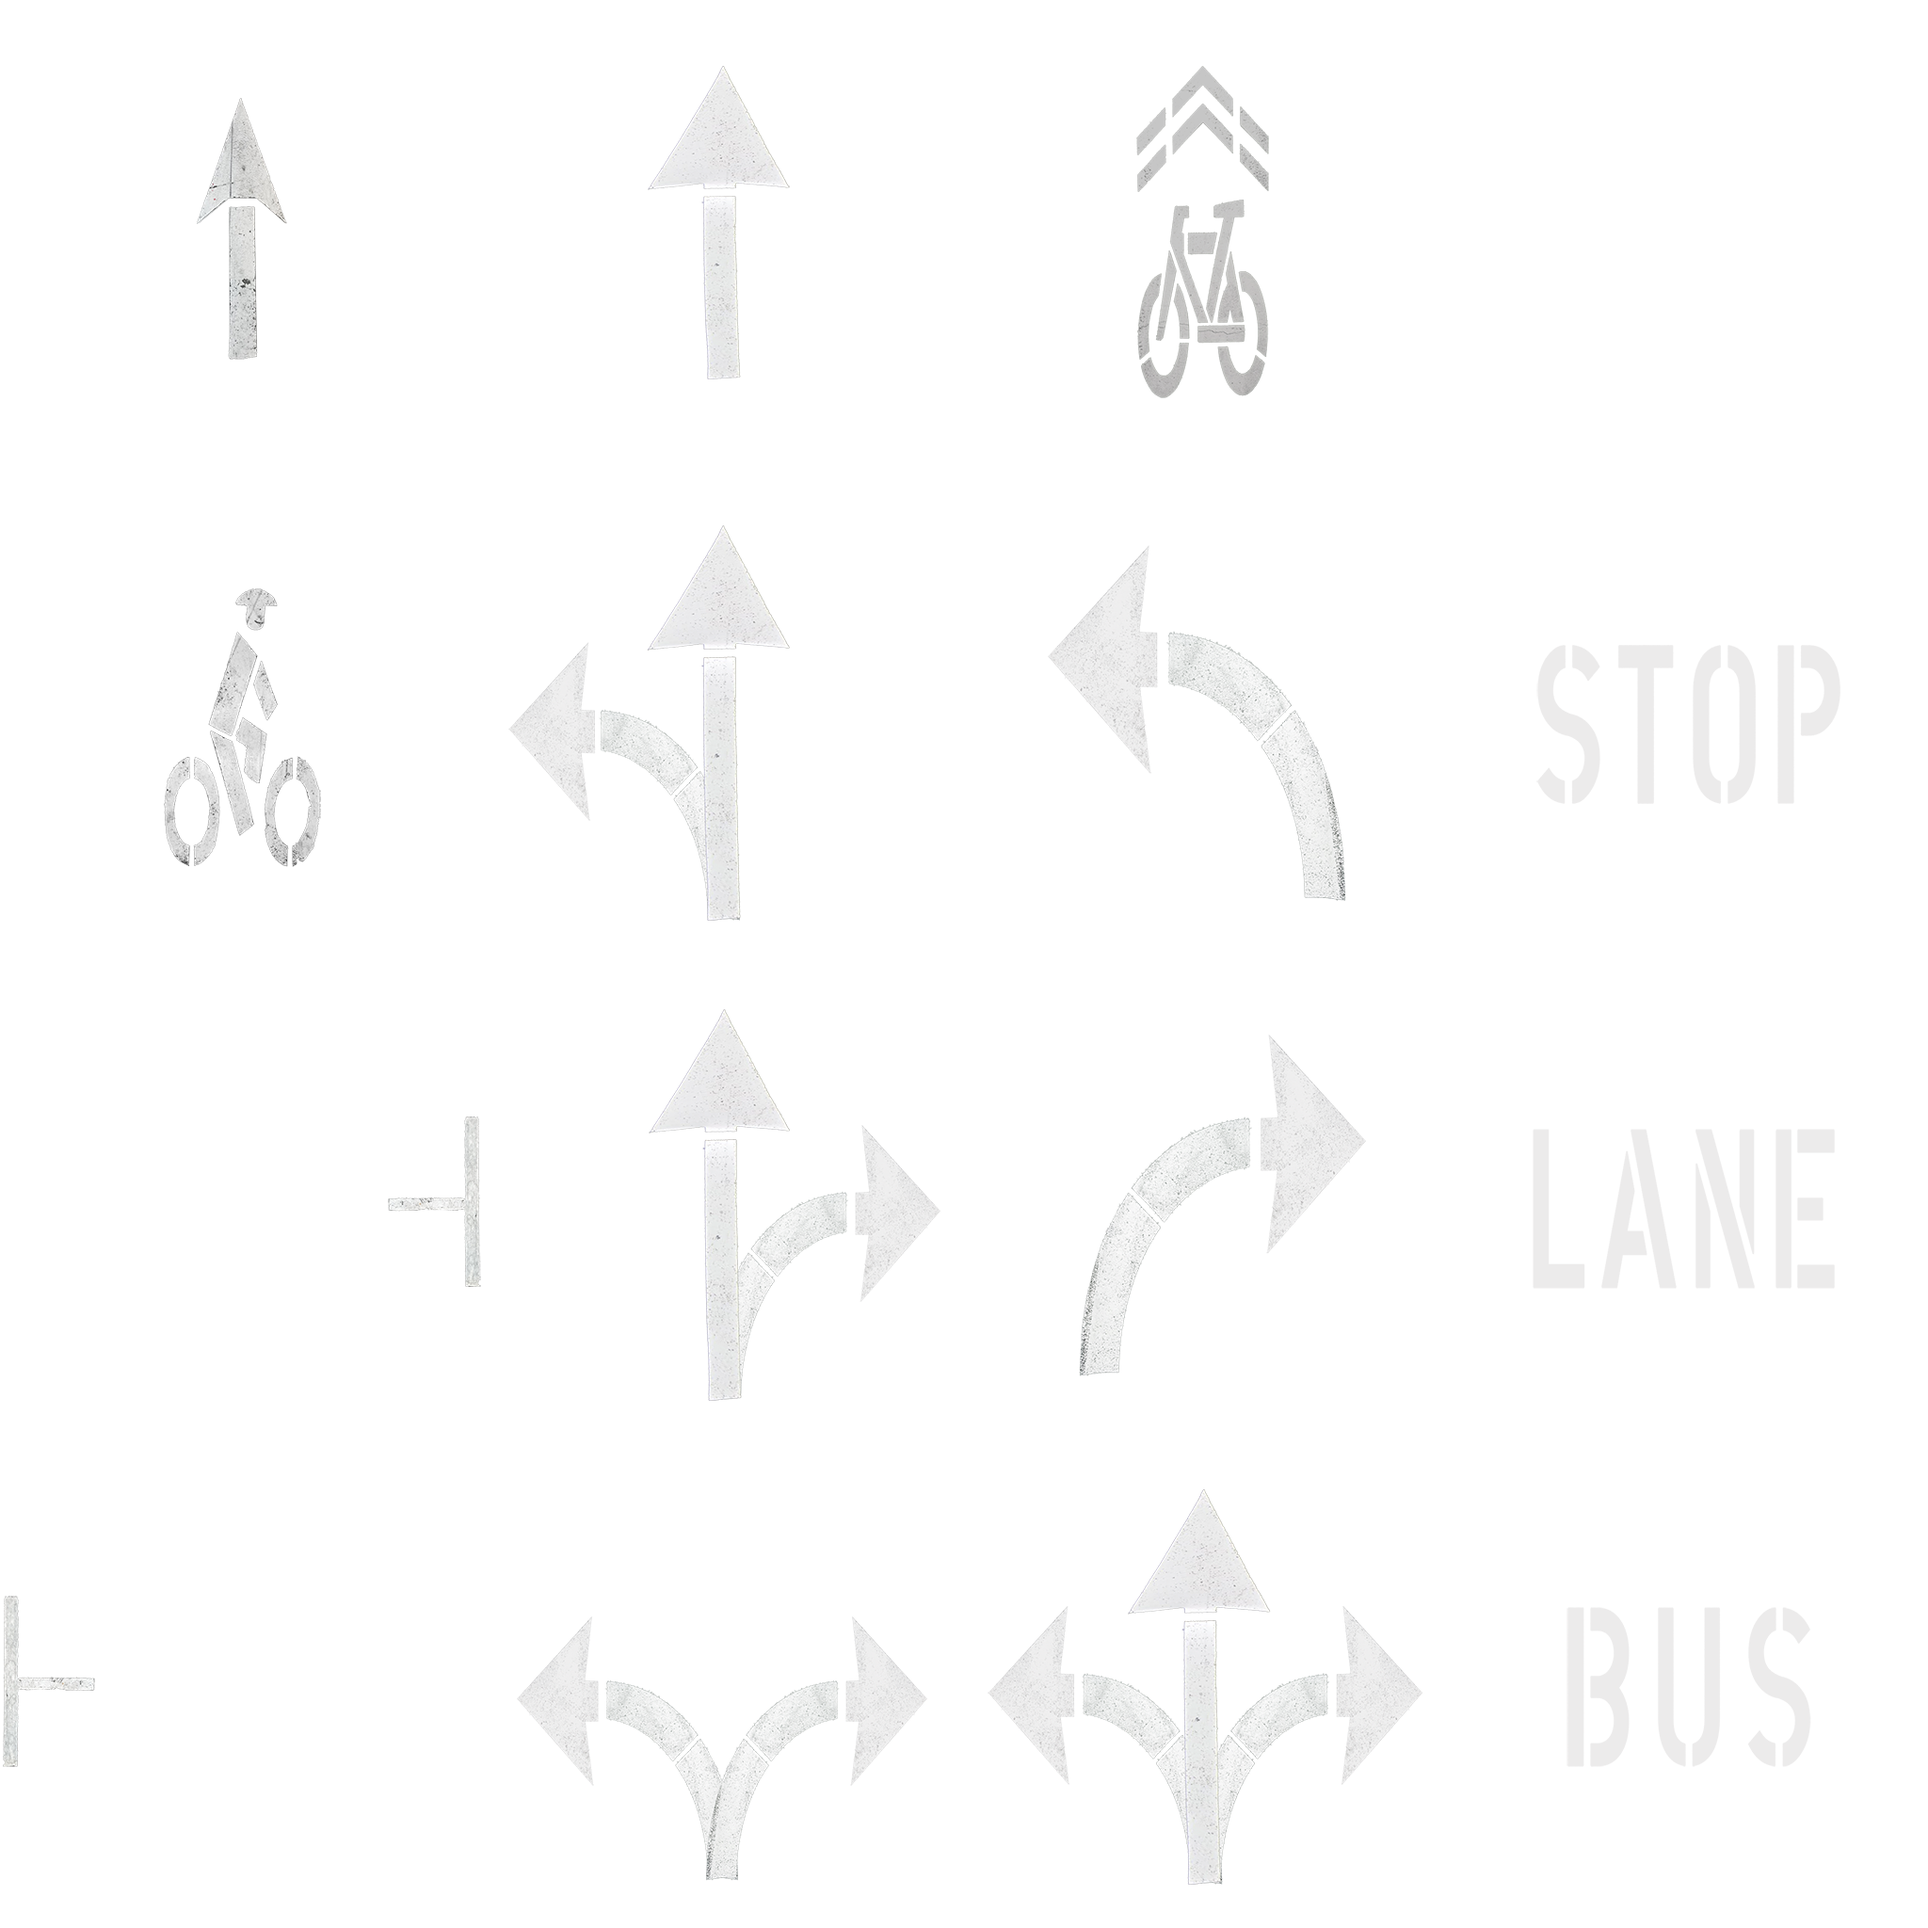
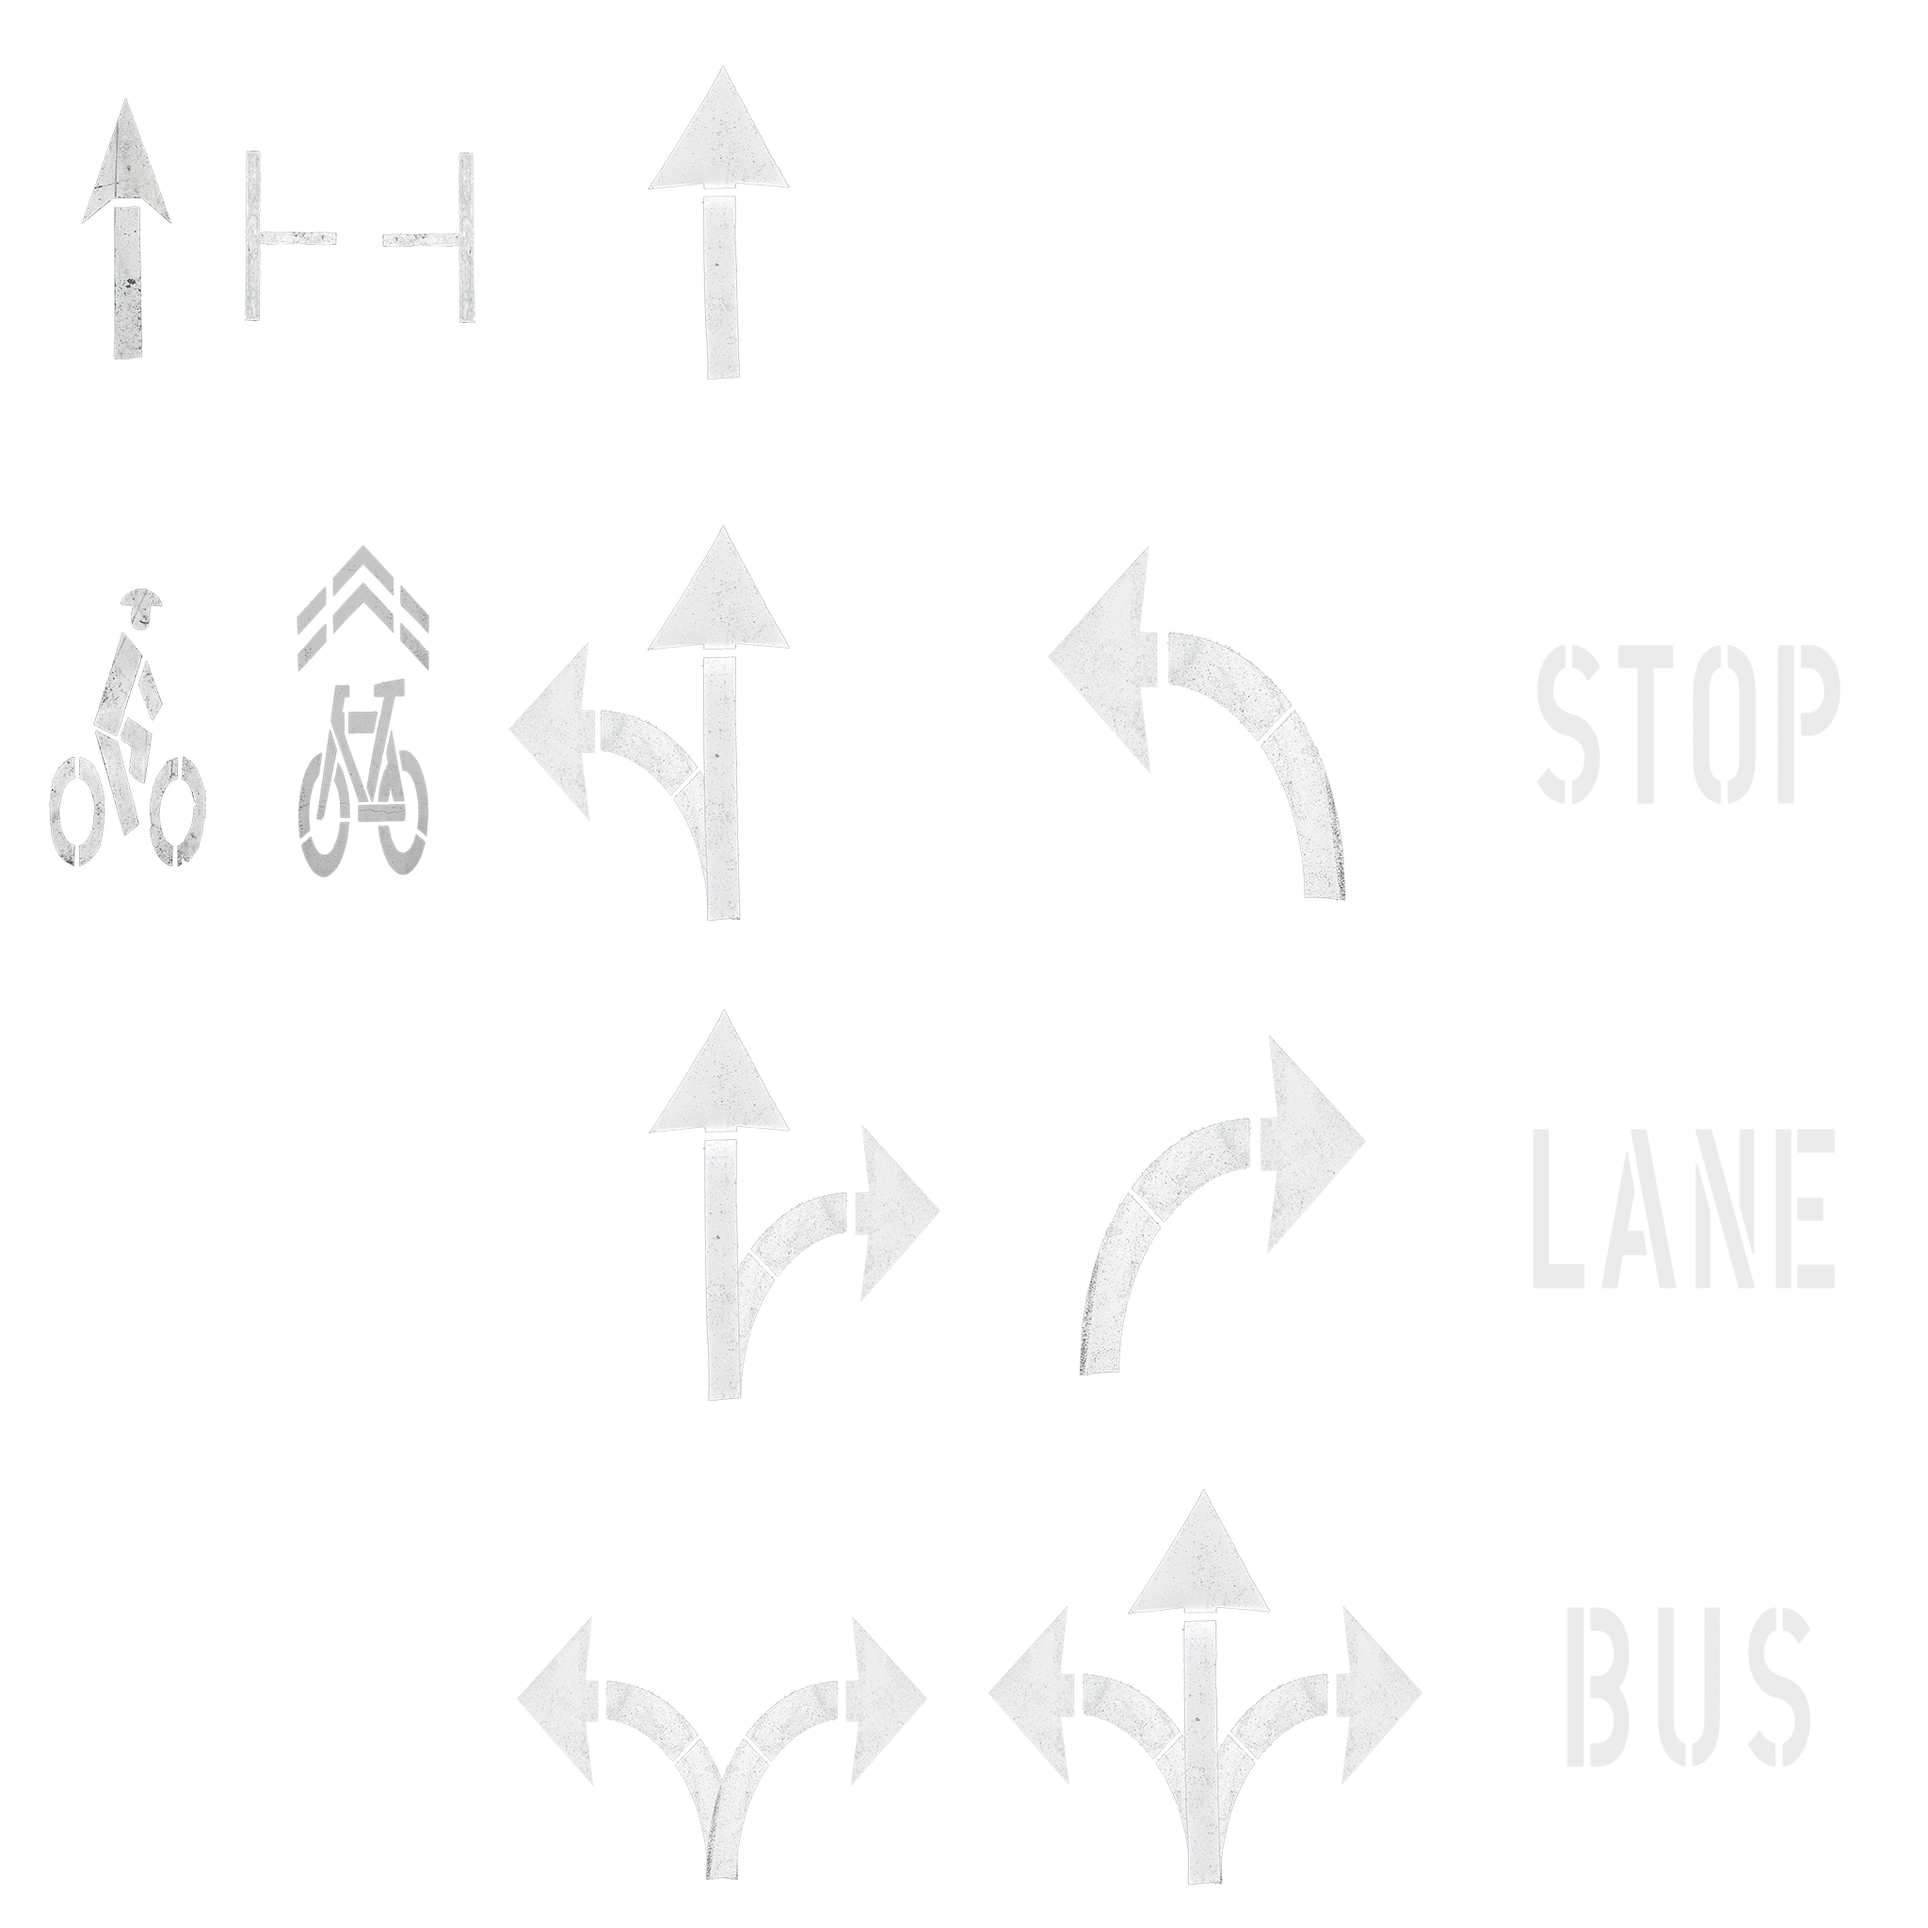
sharrow and bike lane atlas changes

diff --git a/index.html b/index.html
@@ -56,8 +56,8 @@
         <a-mixin id="left-straight" atlas-uvs="column: 2; row: 3"></a-mixin>
         <a-mixin id="right-straight" atlas-uvs="column: 2; row: 2"></a-mixin>
         <a-mixin id="straight" atlas-uvs="column: 2; row: 4"></a-mixin>
-        <a-mixin id="sharrow" atlas-uvs="column: 3; row: 4" scale="4 4 4"></a-mixin>
-        <a-mixin id="marking-bike-lane" atlas-uvs="totalRows: 2; totalColumns: 4; column: 1; row: 2" scale="2 4 1"></a-mixin>
+        <a-mixin id="sharrow" atlas-uvs="totalRows: 4; totalColumns: 8; column: 2; row: 3" scale="1.5 3 1"></a-mixin>
+        <a-mixin id="marking-bike-lane" atlas-uvs="totalRows: 2; totalColumns: 8; column: 1; row: 2" scale="1 4 1"></a-mixin>
 
 
         <a-mixin id="bus" gltf-model="#xd40" scale="1.55 1.55 1.55"></a-mixin>

diff --git a/README.md b/README.md
@@ -119,3 +119,7 @@ Car driving reference code 2 https://github.com/chipbell4/car-physics/blob/maste
 CA MUTCD 2014 Ch 3b Page 79-80, 88 https://dot.ca.gov/-/media/dot-media/programs/traffic-operations/documents/ca-mutcd/camutcd2014-chap3b-rev3-a11y.pdf
 CA MUTCD 2014 Ch 9c 9C-3 Page 11 - https://dot.ca.gov/-/media/dot-media/programs/traffic-operations/documents/ca-mutcd/camutcd2014-chap9c-rev3-a11y.pdf
 City of Lodi PWD https://www.lodi.gov/DocumentCenter/View/2519/710-Pavement-Marking-Details-PDF
+
+### Potential collaborators
+https://www.linkedin.com/in/arturoparacuellos/
+https://www.linkedin.com/in/simonbruno77/
